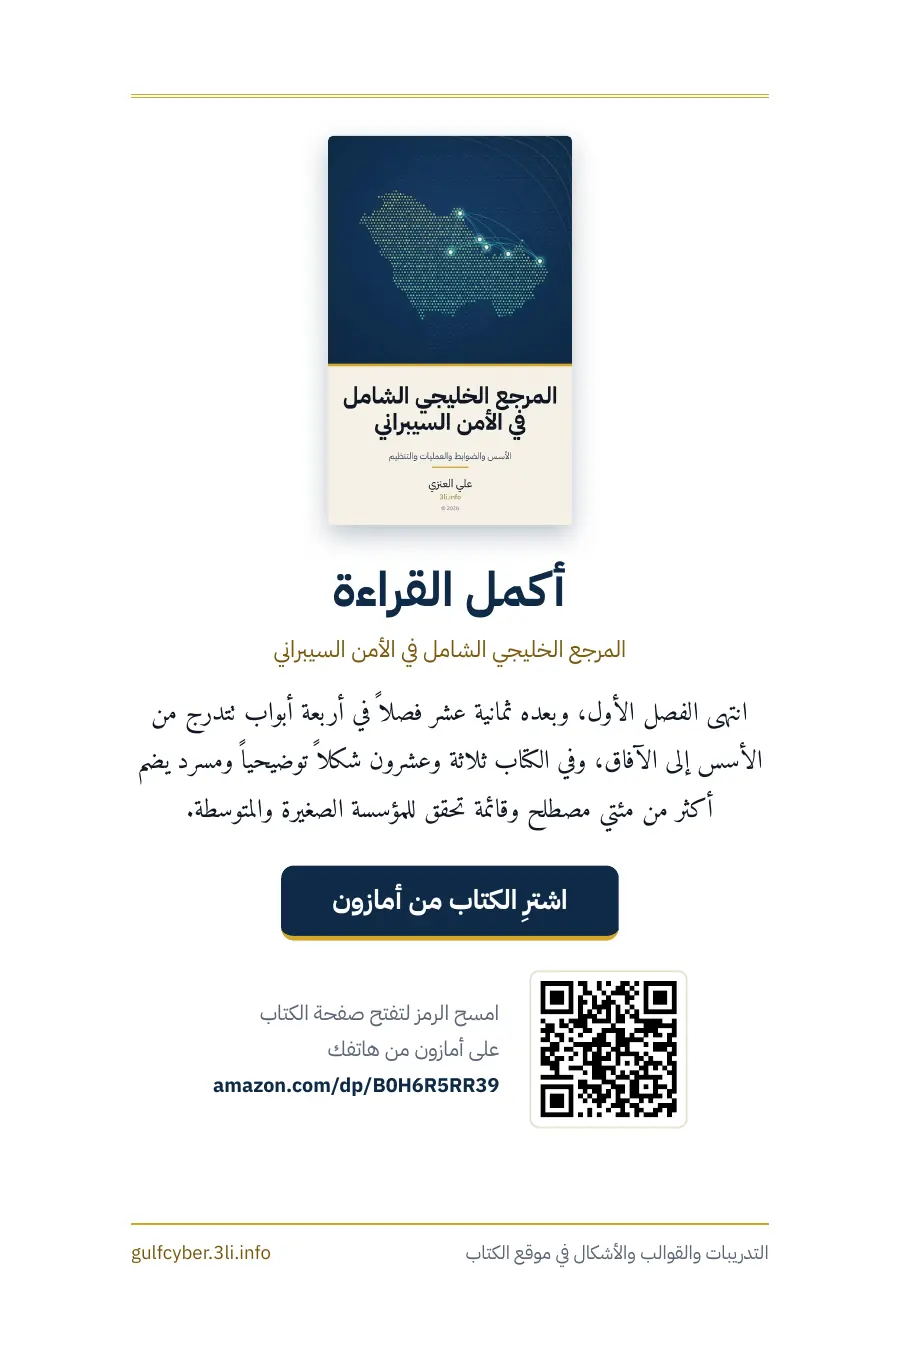
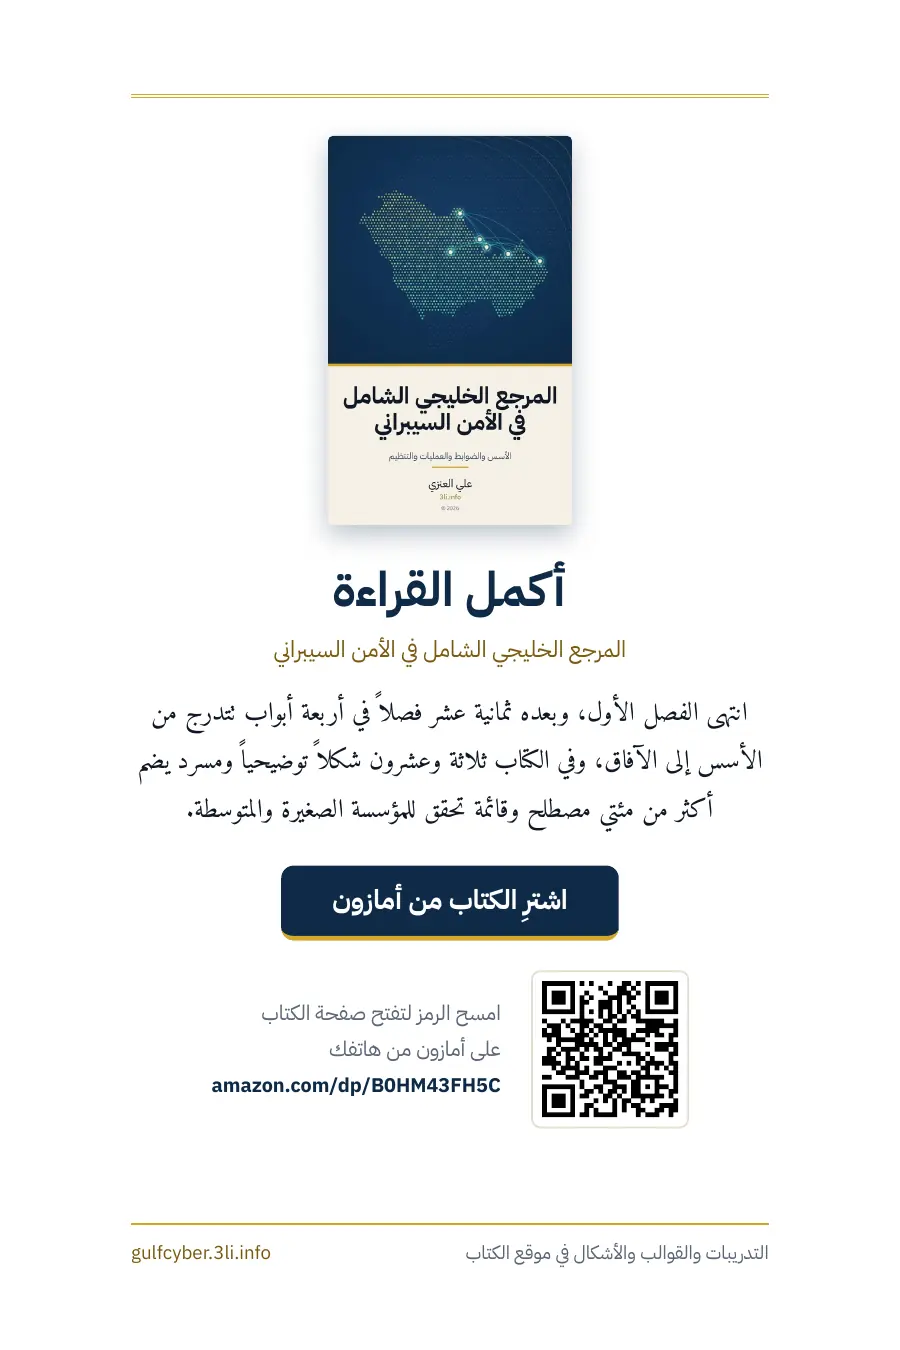
رابط أمازون الجديد للكتاب في الموقع والعينة وقوائم التحقق

Changed region(s): [[0.5911, 0.7156, 0.7778, 0.84], [0.2489, 0.7467, 0.56, 0.8089]]

diff --git a/docs/index.html b/docs/index.html
@@ -27,7 +27,7 @@
 <link rel="preconnect" href="https://fonts.googleapis.com">
 <link rel="preconnect" href="https://fonts.gstatic.com" crossorigin>
 <link href="https://fonts.googleapis.com/css2?family=IBM+Plex+Sans+Arabic:wght@400;500;600;700&display=swap" rel="stylesheet">
-<script type="application/ld+json">{"@context": "https://schema.org", "@graph": [{"@type": "Book", "@id": "https://gulfcyber.3li.info/#book", "name": "المرجع الخليجي الشامل في الأمن السيبراني", "alternativeHeadline": "الأسس والضوابط والعمليات والتنظيم", "alternateName": ["The Comprehensive Gulf Reference in Cybersecurity", "كتاب الأمن السيبراني العربي للجامعات والجهات الحكومية"], "author": {"@type": "Person", "name": "علي العنزي", "alternateName": "Ali AlEnezi", "url": "https://3li.info", "sameAs": ["https://github.com/SiteQ8", "https://www.linkedin.com/in/alenizi/"]}, "inLanguage": "ar", "bookEdition": "الطبعة الأولى", "datePublished": "2026-10", "isbn": "9798178685440", "numberOfPages": 387, "image": "https://gulfcyber.3li.info/assets/cover.jpg", "url": "https://gulfcyber.3li.info/", "sameAs": ["https://www.amazon.com/dp/B0H6R5RR39", "https://github.com/SiteQ8/GulfCyber"], "genre": ["أمن المعلومات", "الأمن السيبراني"], "about": ["الأمن السيبراني", "أمن المعلومات", "إدارة المخاطر السيبرانية", "الحوكمة والامتثال", "الاستجابة للحوادث", "المعمارية الأمنية", "الأطر التنظيمية في دول مجلس التعاون"], "keywords": "كتاب الأمن السيبراني بالعربية، كتاب أمن المعلومات، الأمن السيبراني في الخليج، الأمن السيبراني في الكويت، الأمن السيبراني في السعودية، مرجع جامعي في الأمن السيبراني، علي العنزي", "audience": {"@type": "EducationalAudience", "educationalRole": "student", "audienceType": "طلبة الجامعات والممارسون والقيادات في الجهات الحكومية والمؤسسات"}, "workExample": [{"@type": "Book", "bookFormat": "https://schema.org/EBook", "url": "https://www.amazon.com/dp/B0H6R5RR39", "inLanguage": "ar"}], "offers": {"@type": "Offer", "url": "https://www.amazon.com/dp/B0H6R5RR39", "availability": "https://schema.org/InStock", "seller": {"@type": "Organization", "name": "Amazon"}}}, {"@type": "WebSite", "@id": "https://gulfcyber.3li.info/#website", "url": "https://gulfcyber.3li.info/", "name": "المرجع الخليجي الشامل في الأمن السيبراني", "inLanguage": "ar", "about": {"@id": "https://gulfcyber.3li.info/#book"}, "publisher": {"@type": "Person", "name": "علي العنزي", "url": "https://3li.info"}}, {"@type": "WebPage", "@id": "https://gulfcyber.3li.info/#webpage", "url": "https://gulfcyber.3li.info/", "name": "المرجع الخليجي الشامل في الأمن السيبراني | كتاب من الخليج إلى الخليج", "isPartOf": {"@id": "https://gulfcyber.3li.info/#website"}, "about": {"@id": "https://gulfcyber.3li.info/#book"}, "inLanguage": "ar", "hasPart": [{"@type": "WebPage", "url": "https://gulfcyber.3li.info/samples/", "name": "اقرأ الفصل الأول مجاناً"}, {"@type": "WebPage", "url": "https://gulfcyber.3li.info/checklists/", "name": "قوائم التحقق"}]}]}</script>
+<script type="application/ld+json">{"@context": "https://schema.org", "@graph": [{"@type": "Book", "@id": "https://gulfcyber.3li.info/#book", "name": "المرجع الخليجي الشامل في الأمن السيبراني", "alternativeHeadline": "الأسس والضوابط والعمليات والتنظيم", "alternateName": ["The Comprehensive Gulf Reference in Cybersecurity", "كتاب الأمن السيبراني العربي للجامعات والجهات الحكومية"], "author": {"@type": "Person", "name": "علي العنزي", "alternateName": "Ali AlEnezi", "url": "https://3li.info", "sameAs": ["https://github.com/SiteQ8", "https://www.linkedin.com/in/alenizi/"]}, "inLanguage": "ar", "bookEdition": "الطبعة الأولى", "datePublished": "2026-10", "isbn": "9798178685440", "numberOfPages": 387, "image": "https://gulfcyber.3li.info/assets/cover.jpg", "url": "https://gulfcyber.3li.info/", "sameAs": ["https://www.amazon.com/dp/B0HM43FH5C", "https://github.com/SiteQ8/GulfCyber"], "genre": ["أمن المعلومات", "الأمن السيبراني"], "about": ["الأمن السيبراني", "أمن المعلومات", "إدارة المخاطر السيبرانية", "الحوكمة والامتثال", "الاستجابة للحوادث", "المعمارية الأمنية", "الأطر التنظيمية في دول مجلس التعاون"], "keywords": "كتاب الأمن السيبراني بالعربية، كتاب أمن المعلومات، الأمن السيبراني في الخليج، الأمن السيبراني في الكويت، الأمن السيبراني في السعودية، مرجع جامعي في الأمن السيبراني، علي العنزي", "audience": {"@type": "EducationalAudience", "educationalRole": "student", "audienceType": "طلبة الجامعات والممارسون والقيادات في الجهات الحكومية والمؤسسات"}, "workExample": [{"@type": "Book", "bookFormat": "https://schema.org/EBook", "url": "https://www.amazon.com/dp/B0HM43FH5C", "inLanguage": "ar"}], "offers": {"@type": "Offer", "url": "https://www.amazon.com/dp/B0HM43FH5C", "availability": "https://schema.org/InStock", "seller": {"@type": "Organization", "name": "Amazon"}}}, {"@type": "WebSite", "@id": "https://gulfcyber.3li.info/#website", "url": "https://gulfcyber.3li.info/", "name": "المرجع الخليجي الشامل في الأمن السيبراني", "inLanguage": "ar", "about": {"@id": "https://gulfcyber.3li.info/#book"}, "publisher": {"@type": "Person", "name": "علي العنزي", "url": "https://3li.info"}}, {"@type": "WebPage", "@id": "https://gulfcyber.3li.info/#webpage", "url": "https://gulfcyber.3li.info/", "name": "المرجع الخليجي الشامل في الأمن السيبراني | كتاب من الخليج إلى الخليج", "isPartOf": {"@id": "https://gulfcyber.3li.info/#website"}, "about": {"@id": "https://gulfcyber.3li.info/#book"}, "inLanguage": "ar", "hasPart": [{"@type": "WebPage", "url": "https://gulfcyber.3li.info/samples/", "name": "اقرأ الفصل الأول مجاناً"}, {"@type": "WebPage", "url": "https://gulfcyber.3li.info/checklists/", "name": "قوائم التحقق"}]}]}</script>
 <style>
 :root{--blue:#0E2A47;--blue2:#163B63;--gold:#D4A72C;--gold2:#9A7A1E;--cream:#F6F1E7;--ink:#111826;--muted:#5B6678;--line:#E3DCCB;--white:#fff}
 *{box-sizing:border-box}
@@ -244,7 +244,7 @@ footer a{color:var(--gold);text-decoration:none}
       <a href="checklists/">قوائم التحقق</a>
       <a href="#author">المؤلف</a>
       <a href="samples/">اقرأ مجاناً</a>
-      <a class="buy" href="https://www.amazon.com/dp/B0H6R5RR39">اشترِ الكتاب</a>
+      <a class="buy" href="https://www.amazon.com/dp/B0HM43FH5C">اشترِ الكتاب</a>
     </nav>
   </div>
 </header>
@@ -254,12 +254,12 @@ footer a{color:var(--gold);text-decoration:none}
   <div class="hero-shade"></div>
   <div class="wrap">
     <div class="hero-copy">
-      <a class="pill" href="https://www.amazon.com/dp/B0H6R5RR39">صدر الآن على أمازون</a>
+      <a class="pill" href="https://www.amazon.com/dp/B0HM43FH5C">صدر الآن على أمازون</a>
       <h1>المرجع الخليجي الشامل في الأمن السيبراني</h1>
       <h2>الأسس والضوابط والعمليات والتنظيم</h2>
       <p>مرجع عربي يجمع الأساس النظري والممارسة العملية وأطر دول الخليج في كتاب واحد، للجامعات والجهات الحكومية والممارسين.</p>
       <div class="cta">
-        <a class="btn gold" href="https://www.amazon.com/dp/B0H6R5RR39"><svg viewBox="0 0 24 24" fill="none" stroke="currentColor" stroke-width="2" stroke-linecap="round" stroke-linejoin="round" aria-hidden="true"><path d="M6 7h12l-1 13H7z"/><path d="M9 7a3 3 0 016 0"/></svg>اشترِ من أمازون</a>
+        <a class="btn gold" href="https://www.amazon.com/dp/B0HM43FH5C"><svg viewBox="0 0 24 24" fill="none" stroke="currentColor" stroke-width="2" stroke-linecap="round" stroke-linejoin="round" aria-hidden="true"><path d="M6 7h12l-1 13H7z"/><path d="M9 7a3 3 0 016 0"/></svg>اشترِ من أمازون</a>
         <a class="btn ghost" href="samples/">اقرأ الفصل الأول مجاناً</a>
         <a class="btn ghost" href="https://github.com/SiteQ8/GulfCyber">التدريبات على GitHub</a>
       </div>
@@ -425,7 +425,7 @@ footer a{color:var(--gold);text-decoration:none}
       <p>الكتاب متاح الآن على أمازون، ويمكنك أن تبدأ بالفصل الأول مجاناً قبل الشراء.</p>
     </div>
     <div class="cta">
-      <a class="btn gold" href="https://www.amazon.com/dp/B0H6R5RR39">اشترِ من أمازون</a>
+      <a class="btn gold" href="https://www.amazon.com/dp/B0HM43FH5C">اشترِ من أمازون</a>
       <a class="btn ghost" href="samples/">اقرأ الفصل الأول مجاناً</a>
     </div>
   </div>
@@ -436,20 +436,20 @@ footer a{color:var(--gold);text-decoration:none}
     <div class="en">
       <h2>About the book</h2>
       <p>A comprehensive Arabic reference on information security and cybersecurity, written from the Gulf for the Gulf, with the GCC regulatory landscape placed inside every chapter.</p>
-      <p>Nineteen chapters with learning objectives, glossaries, review questions and exercises for university courses and government training. <a href="https://www.amazon.com/dp/B0H6R5RR39">Available now on Amazon</a></p>
+      <p>Nineteen chapters with learning objectives, glossaries, review questions and exercises for university courses and government training. <a href="https://www.amazon.com/dp/B0HM43FH5C">Available now on Amazon</a></p>
       <p>Title in Arabic: Al-Marji' Al-Khaleeji Al-Shamil fi Al-Amn Al-Sibrani, by Ali AlEnezi. Looking for the English edition? Read <a href="https://cyberingulf.3li.info/">Cybersecurity in the Gulf</a>, the author's English textbook on the same subject.</p>
     </div>
   </div>
 </section>
 
 <div class="mobile-bar">
-  <a class="gold" href="https://www.amazon.com/dp/B0H6R5RR39">اشترِ من أمازون</a>
+  <a class="gold" href="https://www.amazon.com/dp/B0HM43FH5C">اشترِ من أمازون</a>
   <a class="sec" href="samples/">اقرأ الفصل الأول</a>
 </div>
 <footer>
   <div class="wrap">
     <div>© 2026 علي العنزي، جميع الحقوق محفوظة</div>
-    <div><a href="https://www.amazon.com/dp/B0H6R5RR39">أمازون</a> | <a href="https://3li.info">3li.info</a> | <a href="https://github.com/SiteQ8/GulfCyber">GitHub</a> | <a href="mailto:info@3li.info">info@3li.info</a></div>
+    <div><a href="https://www.amazon.com/dp/B0HM43FH5C">أمازون</a> | <a href="https://3li.info">3li.info</a> | <a href="https://github.com/SiteQ8/GulfCyber">GitHub</a> | <a href="mailto:info@3li.info">info@3li.info</a></div>
   </div>
 </footer>
 <script>

diff --git a/docs/samples/index.html b/docs/samples/index.html
@@ -162,7 +162,7 @@ body{font-family:"IBM Plex Sans Arabic",system-ui,-apple-system,"Segoe UI",Tahom
             <h3>لمن هذا الكتاب</h3>
             <p>لطلبة الجامعات في تخصصات أمن المعلومات والحوسبة، وللممارسين في الجهات الحكومية والبنوك والشركات، وللقيادات التي تريد أن تفهم ما يُعرض عليها من مخاطر وضوابط بلغة عربية واضحة، وبأطر الخليج وقوانينه وحوادثه في موضعها من كل فصل.</p>
             <div class="links">
-              <a class="gold" href="https://www.amazon.com/dp/B0H6R5RR39">الكتاب كاملاً على أمازون</a>
+              <a class="gold" href="https://www.amazon.com/dp/B0HM43FH5C">الكتاب كاملاً على أمازون</a>
               <a href="chapter-1.pdf">تحميل العينة بصيغة PDF</a>
               <a href="../checklists/">قوائم التحقق التفاعلية</a>
               <a href="../">الصفحة الرئيسية للكتاب</a>
@@ -171,7 +171,7 @@ body{font-family:"IBM Plex Sans Arabic",system-ui,-apple-system,"Segoe UI",Tahom
         </div>
       </details>
       <a class="btn ghost" href="chapter-1.pdf" download><svg viewBox="0 0 24 24" fill="none" stroke="currentColor" stroke-width="2" stroke-linecap="round" stroke-linejoin="round" aria-hidden="true"><path d="M12 4v11m0 0l-4-4m4 4l4-4M5 20h14"/></svg>PDF</a>
-      <a class="btn gold" id="buyTop" href="https://www.amazon.com/dp/B0H6R5RR39">اشترِ <span class="long">من أمازون</span></a>
+      <a class="btn gold" id="buyTop" href="https://www.amazon.com/dp/B0HM43FH5C">اشترِ <span class="long">من أمازون</span></a>
     </div>
   </header>
 
@@ -185,7 +185,7 @@ body{font-family:"IBM Plex Sans Arabic",system-ui,-apple-system,"Segoe UI",Tahom
   <nav class="bar" aria-label="تقليب الصفحات">
     <button class="nav" id="prev" type="button" aria-label="الصفحة السابقة"><svg viewBox="0 0 24 24" fill="none" stroke="currentColor" stroke-width="2.2" stroke-linecap="round" stroke-linejoin="round"><path d="M9 6l6 6-6 6"/></svg></button>
     <div class="progress"><div class="track"><div class="fill" id="fill"></div></div><div class="label" id="label" aria-live="polite">الغلاف</div></div>
-    <div class="cta" id="cta"><p><b>أعجبك الفصل الأول؟</b>بقية الكتاب في ثمانية عشر فصلاً</p><a class="btn gold" href="https://www.amazon.com/dp/B0H6R5RR39">أكمل القراءة على أمازون</a></div>
+    <div class="cta" id="cta"><p><b>أعجبك الفصل الأول؟</b>بقية الكتاب في ثمانية عشر فصلاً</p><a class="btn gold" href="https://www.amazon.com/dp/B0HM43FH5C">أكمل القراءة على أمازون</a></div>
     <button class="nav" id="next" type="button" aria-label="الصفحة التالية"><svg viewBox="0 0 24 24" fill="none" stroke="currentColor" stroke-width="2.2" stroke-linecap="round" stroke-linejoin="round"><path d="M15 6l-6 6 6 6"/></svg></button>
   </nav>
 </div>

diff --git a/docs/checklists/index.html b/docs/checklists/index.html
@@ -98,7 +98,7 @@ footer a{color:var(--blue)}
     <nav>
       <a href="../#contents">المحتويات</a>
       <a href="../samples/">اقرأ مجاناً</a>
-      <a class="buy" href="https://www.amazon.com/dp/B0H6R5RR39">اشترِ الكتاب</a>
+      <a class="buy" href="https://www.amazon.com/dp/B0HM43FH5C">اشترِ الكتاب</a>
     </nav>
   </div>
 </header>
@@ -295,7 +295,7 @@ footer a{color:var(--blue)}
 <footer>
   <div class="wrap">
     <p>كُتب كل بند في القائمتين أمراً مباشراً يُحال إلى صاحبه ويُطلب عليه دليل، والفصول التي تشرح كل مجموعة مذكورة في عنوانها، وتفصيل الضوابط كلها في الكتاب.</p>
-    <a class="btn" href="https://www.amazon.com/dp/B0H6R5RR39">اشترِ الكتاب من أمازون</a>
+    <a class="btn" href="https://www.amazon.com/dp/B0HM43FH5C">اشترِ الكتاب من أمازون</a>
   </div>
 </footer>
 

diff --git a/README.md b/README.md
@@ -4,7 +4,7 @@
 
 الموقع: [gulfcyber.3li.info](https://gulfcyber.3li.info)
 
-الكتاب على أمازون: [amazon.com/dp/B0H6R5RR39](https://www.amazon.com/dp/B0H6R5RR39)
+الكتاب على أمازون: [amazon.com/dp/B0HM43FH5C](https://www.amazon.com/dp/B0HM43FH5C)
 
 ## ما في هذا المستودع
 
@@ -40,4 +40,4 @@ python3 tools/cover/make_covers.py --design final   يولد الغلاف الم
 
 ## English
 
-Companion site, labs and tools for the Arabic book "The Comprehensive Gulf Reference in Cybersecurity". The book is available on Amazon at https://www.amazon.com/dp/B0H6R5RR39 and the manuscript itself is not in this repository. Labs are per chapter with templates and sample data, figures are generated from a small Python tool, and the dotted Gulf map on the cover is built from geoBoundaries data.
+Companion site, labs and tools for the Arabic book "The Comprehensive Gulf Reference in Cybersecurity". The book is available on Amazon at https://www.amazon.com/dp/B0HM43FH5C and the manuscript itself is not in this repository. Labs are per chapter with templates and sample data, figures are generated from a small Python tool, and the dotted Gulf map on the cover is built from geoBoundaries data.
